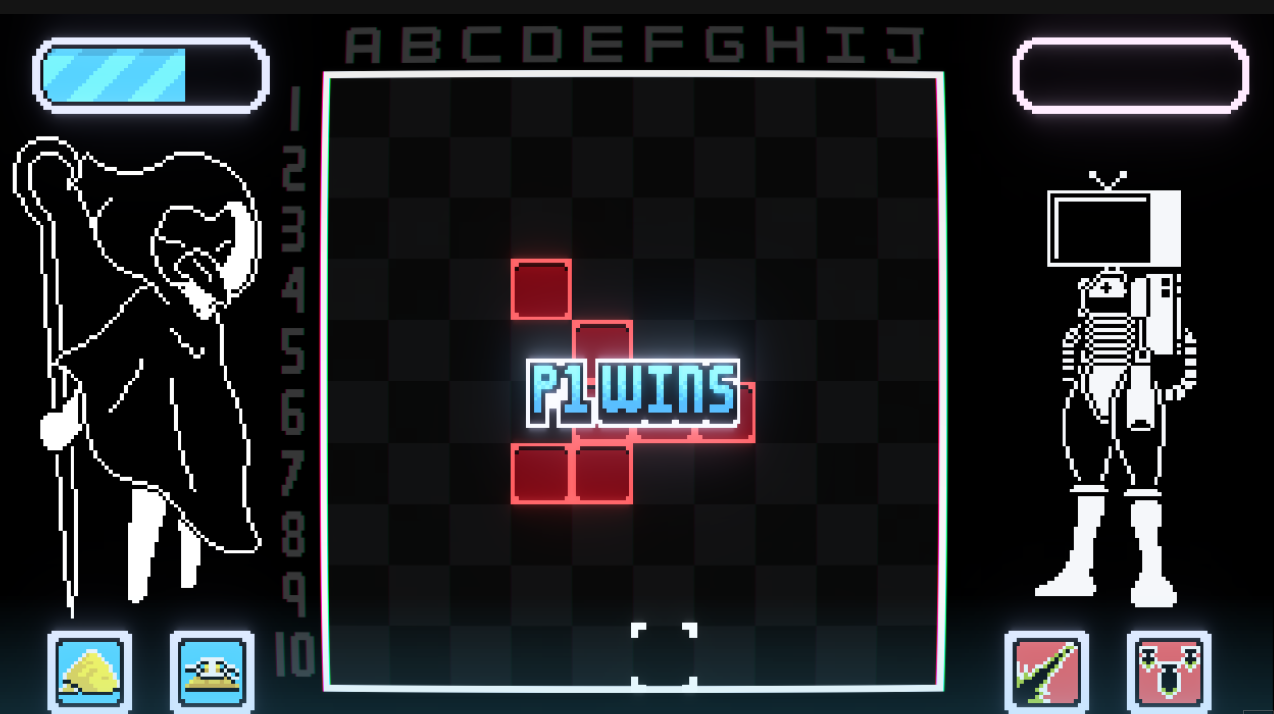
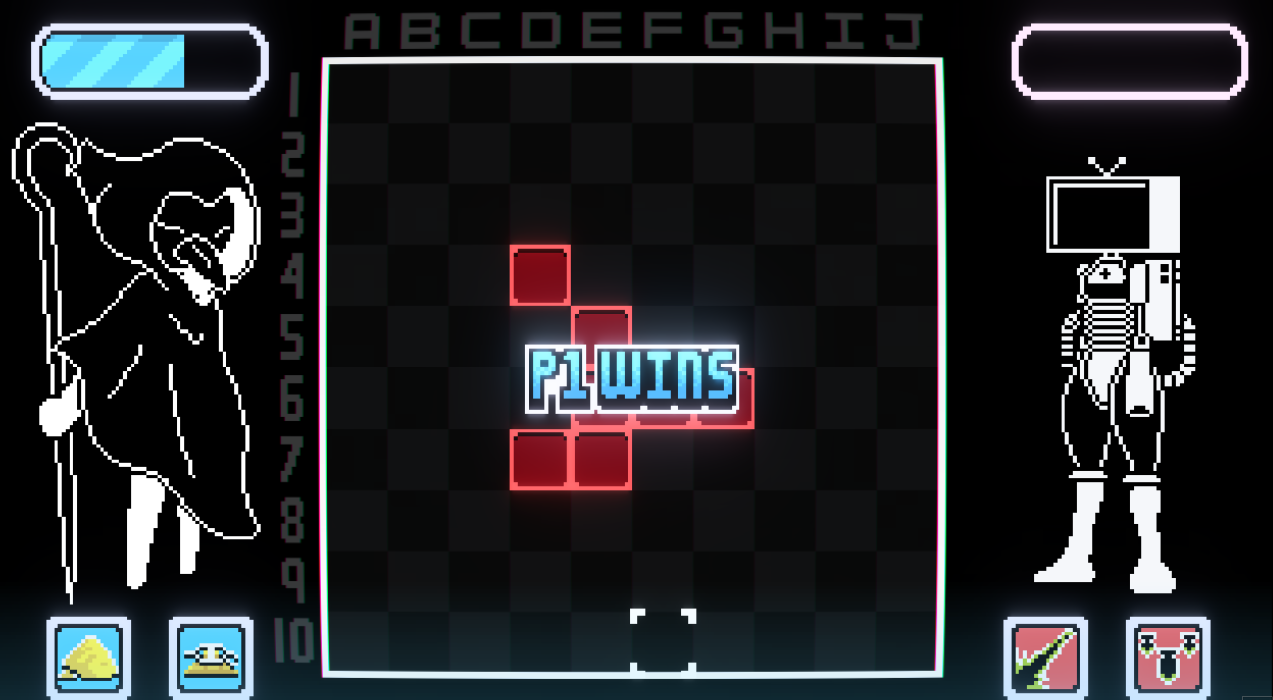
fix(script.js):fixed slideshow

diff --git a/index.html b/index.html
@@ -39,33 +39,33 @@
             <li><a href="comingsoon.html"> Coming soon </a></li>
         </ul>
     </nav>
-
+  <br>
 <!-- Slideshow container -->
 <div class="slideshow-container">
 
     <!-- Full-width images with number and caption text -->
     <div class="mySlides fade">
       <div class="numbertext">1 / 3</div>
-      <img src="images/c4character.png" style="width:100%">
-      <div class="text">Caption Text</div>
+      <img src="images/c4character.png">
+      <div class="text">Character Selection</div>
     </div>
   
     <div class="mySlides fade">
       <div class="numbertext">2 / 3</div>
-      <img src="images/c4game1.png" style="width:100%">
-      <div class="text">Caption Two</div>
+      <img src="images/c4game1.png">
+      <div class="text">Game</div>
     </div>
   
     <div class="mySlides fade">
       <div class="numbertext">3 / 3</div>
-      <img src="images/c4win.png" style="width:100%">
-      <div class="text">Caption Three</div>
+      <img src="images/c4win.png">
+      <div class="text">Player 1 Victory</div>
     </div>
   
     <!-- Next and previous buttons -->
     <a class="prev" onclick="plusSlides(-1)">&#10094;</a>
     <a class="next" onclick="plusSlides(1)">&#10095;</a>
-  </div>
+</div>
   <br>
   
   <!-- The dots/circles -->

diff --git a/script.js b/script.js
@@ -1,5 +1,7 @@
-let slideIndex = 1;
-showSlides(slideIndex);
+window.onload = function showSlide() {
+  let slideIndex = 0;
+  showSlides(slideIndex);
+}
 
 // Next/previous controls
 function plusSlides(n) {
@@ -17,6 +19,7 @@ function showSlides(n) {
   let dots = document.getElementsByClassName("dot");
   if (n > slides.length) {slideIndex = 1}
   if (n < 1) {slideIndex = slides.length}
+  if (n = 0) {slideIndex = 1}
   for (i = 0; i < slides.length; i++) {
     slides[i].style.display = "none";
   }

diff --git a/style.css b/style.css
@@ -16,6 +16,12 @@ nav{
     border-bottom: 1px solid #fff;
 }
 
+img{
+  outline: 4px solid red;
+  width: 100%;
+  height: 600px;
+}
+
 nav .logo{
     padding: 22px 20px;
     height: 80px;
@@ -55,6 +61,7 @@ nav ul li a:hover{
   max-width: 1000px;
   position: relative;
   margin: auto;
+  transform: translate(0, 17%);
 }
 
 /* Hide the images by default */
